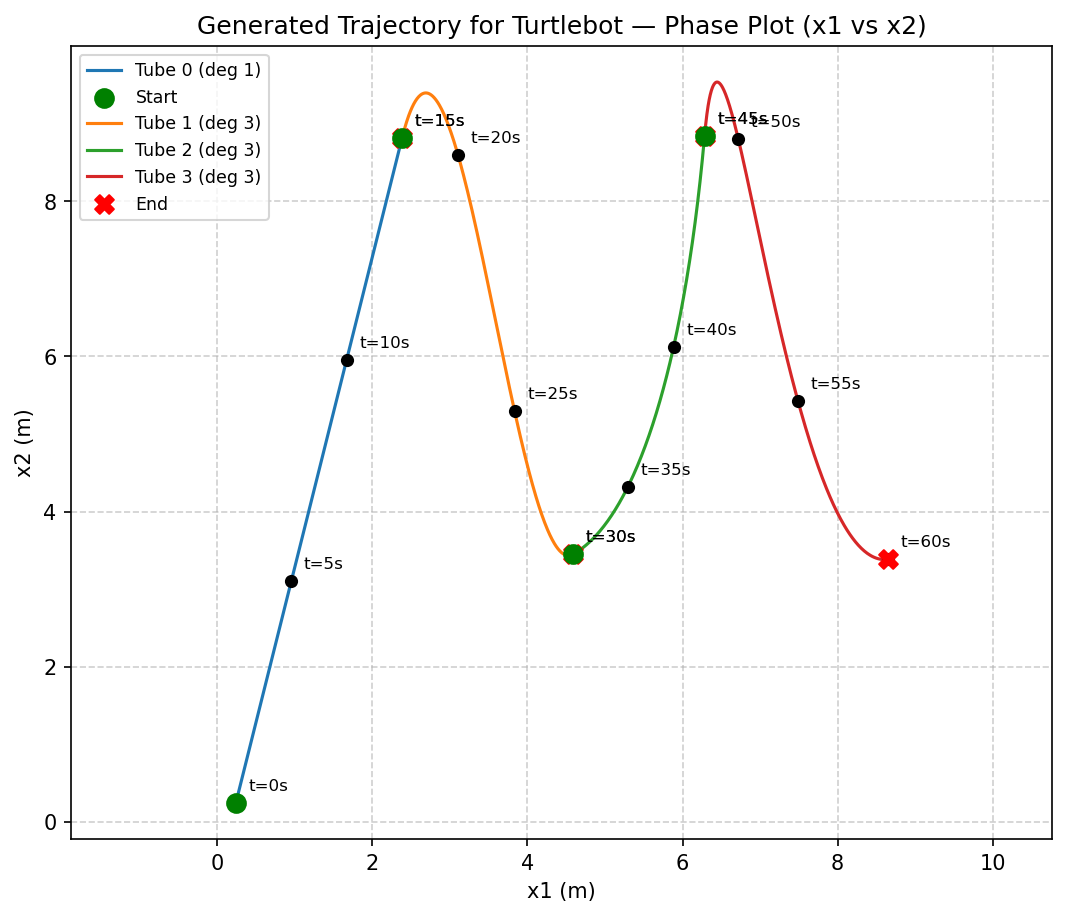
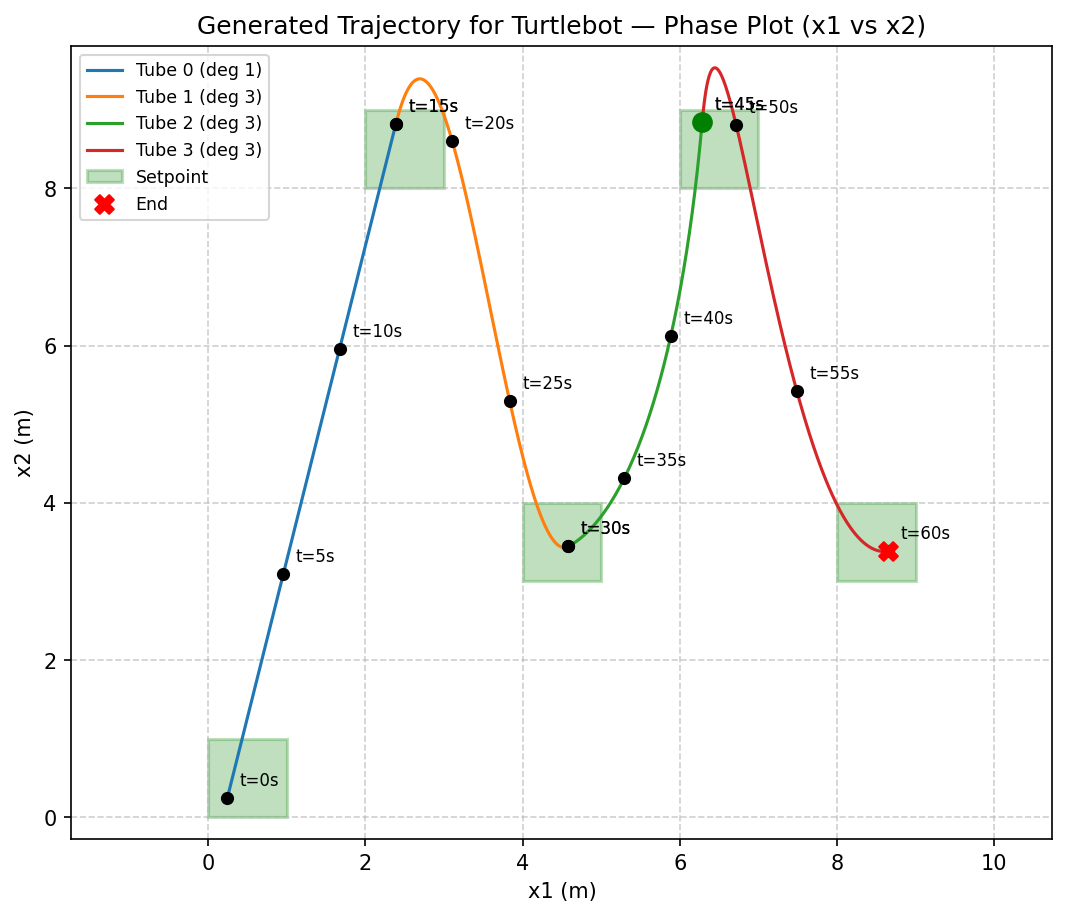
feat: added setpoints in plot

diff --git a/src/tube_pipeline.py b/src/tube_pipeline.py
@@ -44,25 +44,26 @@ class TubePipeline:
         self._specs.append(spec)
         return self
 
-    def run(self) -> list:
+    def run(self) -> tuple:
         """
         Solve all tubes in order, joining continuity constraints between them.
-        Returns list of [coeffs, t_start, t_end] ready for the plotter.
+        Returns:
+            tubes:     list of [coeffs, t_start, t_end]
+            setpoints: list of [args, tube_idx] for all reach constraints
         """
         global_start = time.time()
         open(self.output_csv, 'w').close()
 
         prev_solver: Optional[Generate_STT] = None
         prev_coeffs: Optional[list]         = None
+        all_setpoints = []
 
         for idx, spec in enumerate(self._specs):
             print(f"\n{'='*60}")
             print(f"  Tube {idx}  |  degree={spec.degree}  |  t=[{spec.t_start}, {spec.t_end}]")
             print(f"{'='*60}")
 
-            solver = Generate_STT(degree=spec.degree,
-                                  dimension=self.dimension,
-                                  time_step=self.time_step)
+            solver = Generate_STT(degree=spec.degree, dimension=self.dimension, time_step=self.time_step)
 
             for args in spec.reach_constraints:
                 apply_constraints(solver, [reach(solver, *args)])
@@ -76,6 +77,10 @@ class TubePipeline:
 
             if solver.flag:
                 self._save_tube(coeffs, spec, append=(idx > 0))
+                for pt in solver.setpoints:
+                    all_setpoints.append({"bounds": pt, "tube_idx": idx, "type": "setpoint"})
+                for pt in solver.obstacles:
+                    all_setpoints.append({"bounds": pt, "tube_idx": idx, "type": "obstacle"})
             else:
                 print(f"Tube {idx} failed — stopping pipeline.")
                 break
@@ -86,8 +91,10 @@ class TubePipeline:
         print(f"\nTotal pipeline time: ", end="")
         Generate_STT(1, 1, 0.1)._display_time(global_start, time.time())
 
-        return [[self._coeffs[i], self._specs[i].t_start, self._specs[i].t_end]
+        tubes = [[self._coeffs[i], self._specs[i].t_start, self._specs[i].t_end]
                 for i in range(len(self._coeffs)) if self._solvers[i].flag]
+
+        return tubes, all_setpoints
 
     # ── CSV persistence ───────────────────────────────────────────────────────
 

diff --git a/src/plotter.py b/src/plotter.py
@@ -29,8 +29,7 @@ class Plotter:
                 power += 1
         return result
 
-    def plot(self, tubes: list, title: str = "Generated Trajectory",
-             time_label_interval: float = 5.0):
+    def plot(self, tubes: list, title: str = "Generated Trajectory", time_label_interval: float = 5.0, setpoints: list = None):
         """
         tubes: list of [coeffs, t_start, t_end]
 
@@ -119,6 +118,24 @@ class Plotter:
                     ax_xy.annotate(f"t={t_tick:.0f}s", xy=(x_tick, y_tick),
                                    xytext=(6, 6), textcoords='offset points',
                                    fontsize=8, color='black', zorder=5)
+
+            # ── Draw setpoints and obstacles ─────────────────────────────────────
+            if setpoints:
+                for sp in setpoints:
+                    pt   = sp["bounds"]
+                    kind = sp["type"]
+                    # pt format: [x_lo, x_hi, y_lo, y_hi, t_start, t_end]
+                    x_lo, x_hi = pt[0], pt[1]
+                    y_lo, y_hi = pt[2], pt[3]
+                    color  = "green" if kind == "setpoint" else "red"
+                    alpha  = 0.25
+                    width  = x_hi - x_lo
+                    height = y_hi - y_lo
+                    rect = plt.Rectangle((x_lo, y_lo), width, height,
+                                        linewidth=1.5, edgecolor=color,
+                                        facecolor=color, alpha=alpha,
+                                        label=kind.capitalize() if sp == setpoints[0] else "")
+                    ax_xy.add_patch(rect)
 
                 # ── Start / end markers ───────────────────────────────────────
                 ax_xy.scatter(xs[0],  ys[0],  marker='o', s=80, color='green', zorder=5,

diff --git a/src/main.py b/src/main.py
@@ -48,5 +48,5 @@ if __name__ == "__main__":
         ]
     ))
 
-    tubes = pipeline.run()
-    Plotter(dim=2).plot(tubes, title="Generated Trajectory for Turtlebot")
+tubes, setpoints = pipeline.run()
+Plotter(dim=2).plot(tubes, title="Generated Trajectory for Turtlebot", setpoints=setpoints)
